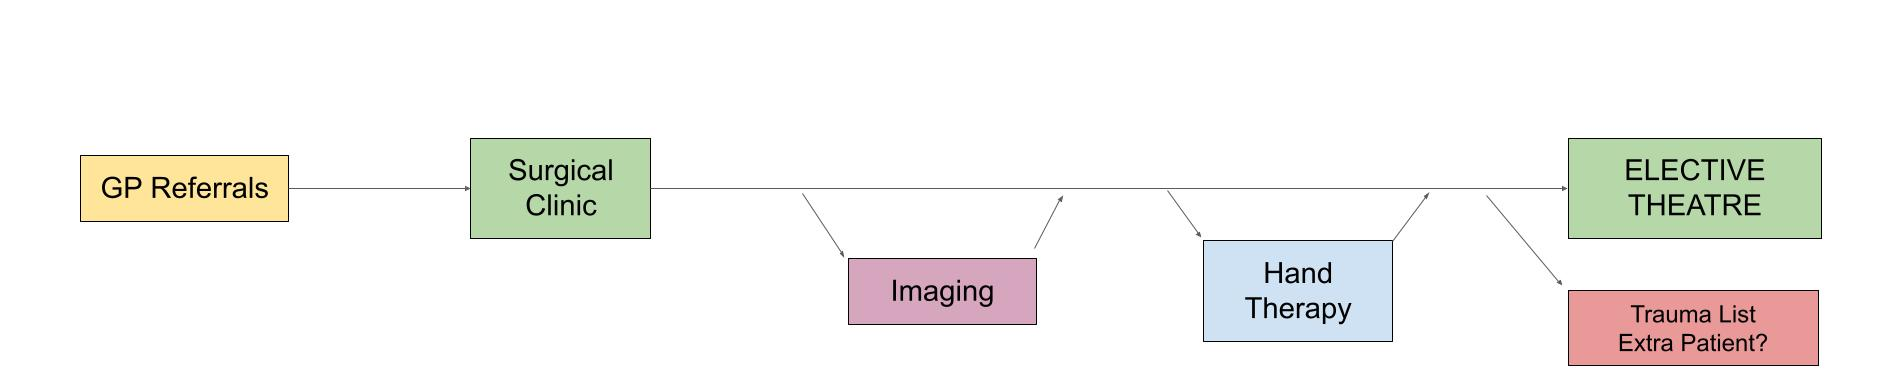
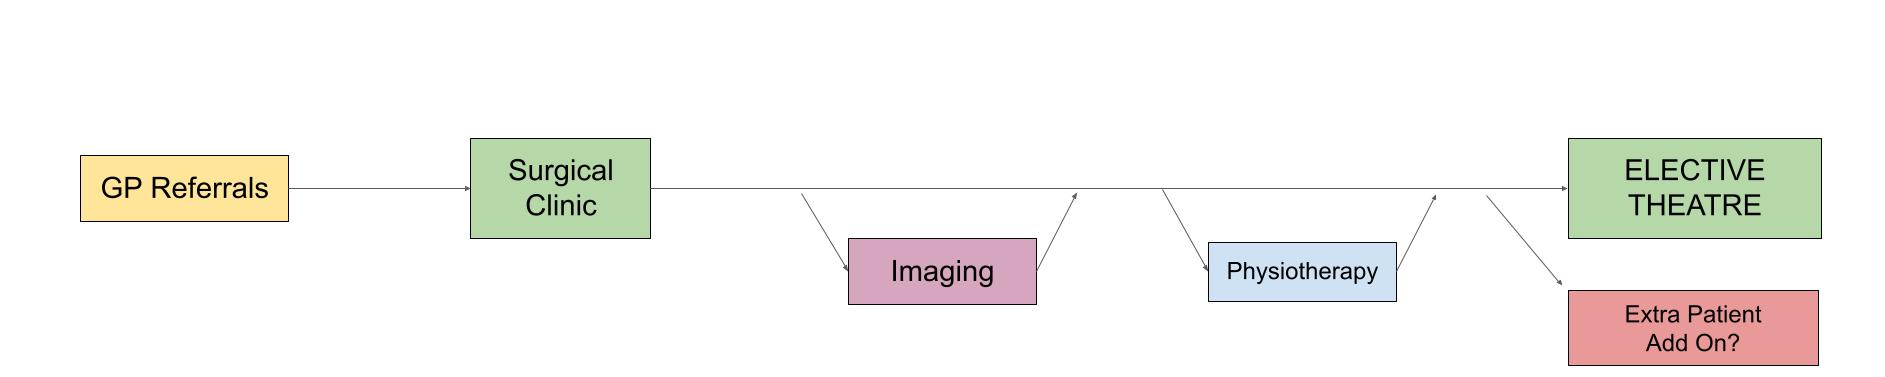
made generic

diff --git a/content/model.py b/content/model.py
@@ -23,13 +23,13 @@ from PIL import Image
 st.set_page_config(layout='wide')
 
 # title text
-st.title('GSTT Hand Surgery Pathway Simulation')
+st.title('Elective Surgery Pathway Simulation')
 
 # description text
-st.markdown('Welcome to the Guy\'s and St Thomas\' Hand Surgery pathway interactive simulation!')
-st.markdown('This simulation models the elective hand surgery pathway, based on the diagram below, using a computer modelling technique called Discrete Event Simulation.')
+st.markdown('Welcome to the Elective Surgery pathway interactive simulation!')
+st.markdown('This simulation models a simple elective surgery pathway, based on the diagram below, using a computer modelling technique called Discrete Event Simulation.')
 st.markdown('By adjusting the parameters, you can see how allocating resources differently will affect the waiting lists and waiting times.')
-st.markdown('In particular, it is possible to model the impact of adding extra elective patients onto the hand trauma lists - use the :green[green input boxes] in the bottom right.')
+st.markdown('In particular, it is possible to model the impact of adding extra elective patients onto lists - use the :green[green input boxes] in the bottom right.')
 st.markdown('Press \'Start Simulation\' to run the simulation, and the results will be displayed below.')
 st.markdown('[Source code](https://github.com/gasman-dom/gstt_hands_waitlist_st)')
 
@@ -74,15 +74,15 @@ with col3:
                                         value = g.fill_imaging_q)
     
 with col4:
-    THERAPY_WEEKLY_APPTS = st.number_input('Number of Hand Therapy Slots per Week',
+    THERAPY_WEEKLY_APPTS = st.number_input('Number of Physiotherapy Slots per Week',
                                    step = 1,
                                    value = g.therapy_weekly_appts)
     
-    PROB_THERAPY = st.slider('Percentage of Patients requiring Hand Therapy',
+    PROB_THERAPY = st.slider('Percentage of Patients requiring Physiotherapy',
                                             step = 0.01,
                                             value = g.prob_needs_therapy)
     
-    THERAPY_Q = st.number_input('Patients Waiting for Hand Therapy at Start of Simulation',
+    THERAPY_Q = st.number_input('Patients Waiting for Physiotherapy at Start of Simulation',
                                         step = 1,
                                         value = g.fill_therapy_q)
 
@@ -99,11 +99,11 @@ with col5:
                                         step = 1,
                                         value = g.fill_theatre_q)
     
-    TRAUMA_LISTS = st.number_input(':green[Trauma Lists to add Extra Patients Per Week]',
+    TRAUMA_LISTS = st.number_input(':green[Lists to add Extra Patients Per Week]',
                                    step = 1,
                                       value = g.trauma_list_per_week)
     
-    EXTRA_PATIENTS = st.number_input(':green[Extra Patients Per Trauma List]',
+    EXTRA_PATIENTS = st.number_input(':green[Extra Patients Per List]',
                                         step = 1,
                                         value = g.trauma_extra_patients)
 
